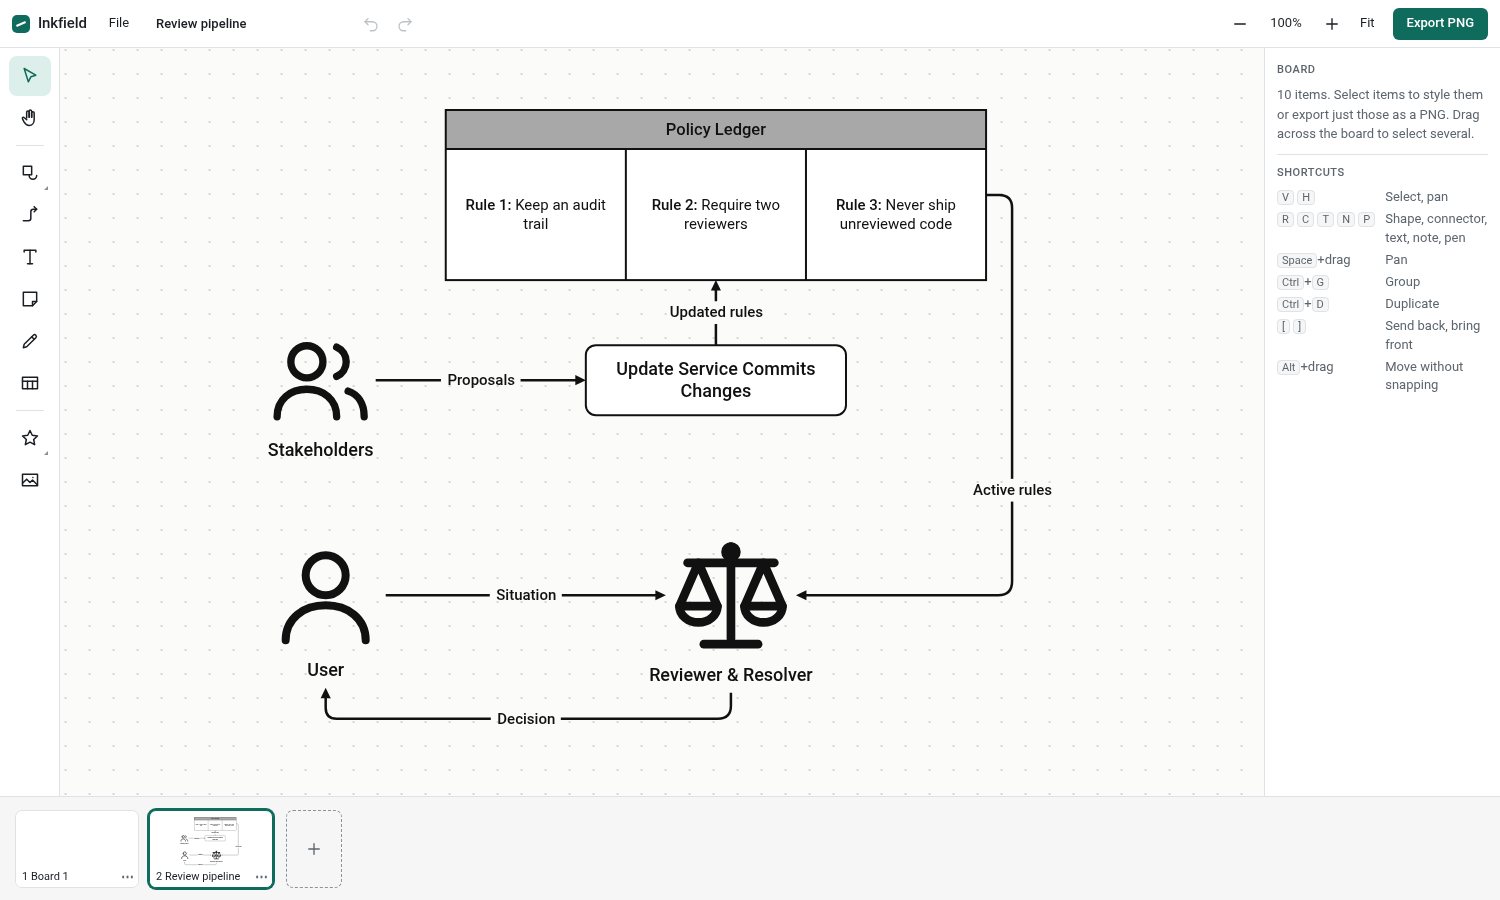
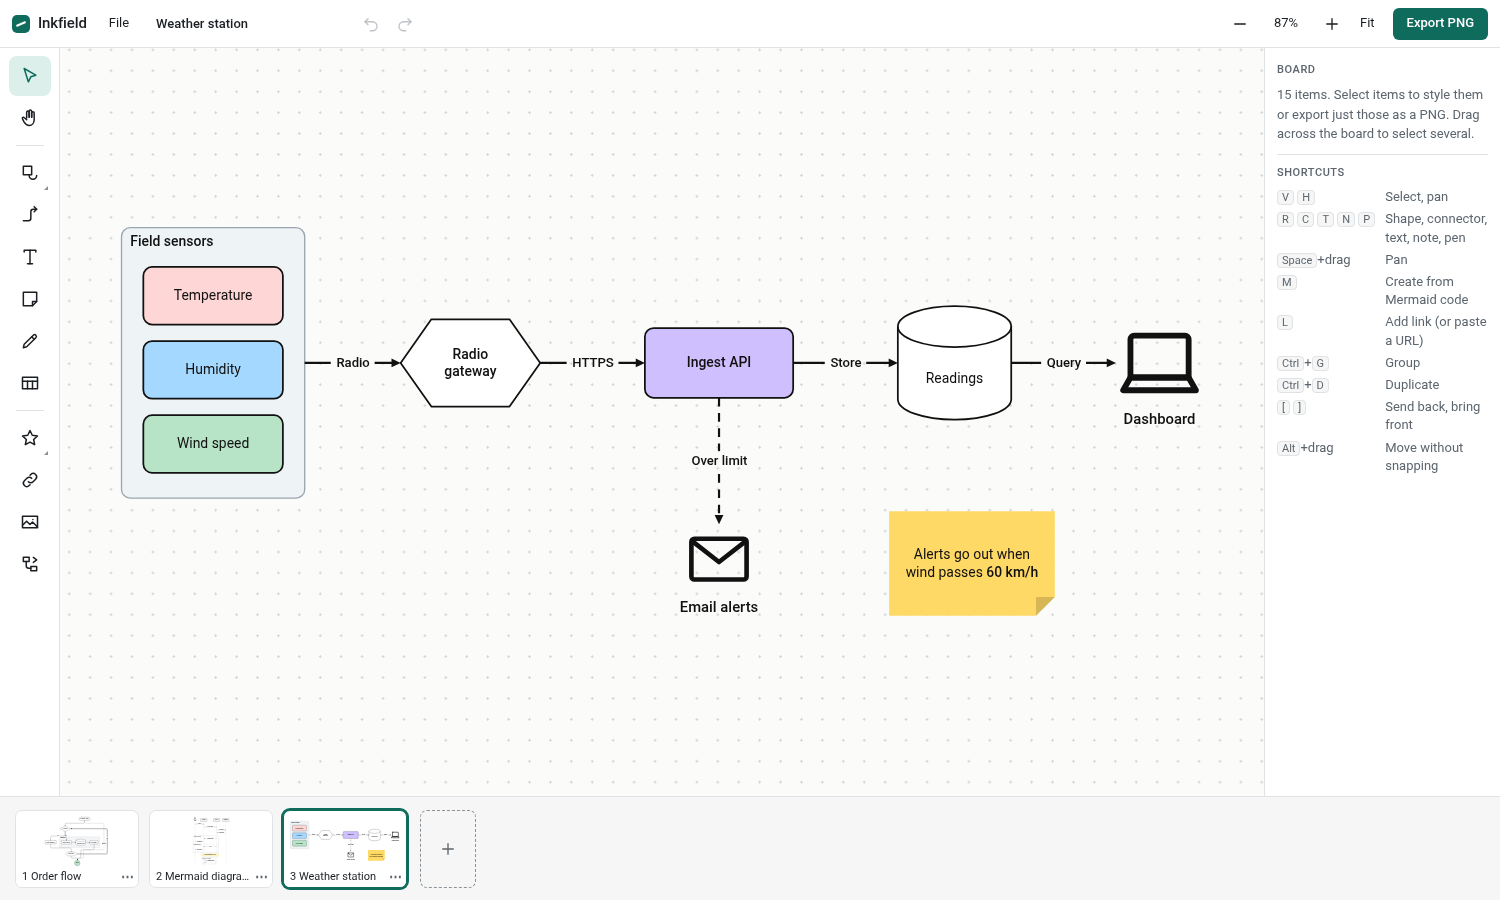
Replace README screenshot and sample diagram (#4)
Use a new weather station example throughout.

diff --git a/tests/core.test.js b/tests/core.test.js
@@ -13,10 +13,10 @@ const measure = approxMeasure;
 const map = (...els) => new Map(els.map((e) => [e.id, e]));
 
 test('wrapText wraps, keeps explicit breaks, and parses bold runs', () => {
-  const lines = wrapText('**Rule 1:** keep things short\nnext', 100, 16, 400, measure);
+  const lines = wrapText('**Tip one:** keep things short\nnext', 100, 16, 400, measure);
   assert.ok(lines.length >= 3);
   assert.equal(lines[0].runs[0].bold, true);
-  assert.equal(lines[0].runs[0].t, 'Rule 1:');
+  assert.equal(lines[0].runs[0].t, 'Tip one:');
   assert.equal(lines.at(-1).runs[0].t, 'next');
   for (const line of lines) assert.ok(line.width <= 100.01);
 });

diff --git a/tests/e2e/smoke.py b/tests/e2e/smoke.py
@@ -12,7 +12,7 @@ from playwright.sync_api import sync_playwright
 BASE = f"http://localhost:{os.environ.get('PORT', '4173')}"
 OUT = Path(__file__).parent / "artifacts"
 OUT.mkdir(exist_ok=True)
-EXAMPLE = Path(__file__).parents[2] / "examples" / "review-pipeline.json"
+EXAMPLE = Path(__file__).parents[2] / "examples" / "weather-station.json"
 failures = []
 
 
@@ -238,11 +238,11 @@ with sync_playwright() as p:
 
     # JSON import, icons, table, labels: visual fidelity board
     page.set_input_files("#file-input", EXAMPLE)
-    page.wait_for_function("window.inkfield.editor.board.name === 'Review pipeline'")
+    page.wait_for_function("window.inkfield.editor.board.name === 'Weather station'")
     settle(page)
     page.wait_for_timeout(600)
     page.screenshot(path=OUT / "04-example-board.png")
-    check("imports example JSON", len(els(page)) == 10)
+    check("imports example JSON", len(els(page)) == 15)
 
     # Tool coverage: table edit, sticky, pen, icon, connector style
     page.click("#add-board")

diff --git a/README.md b/README.md
@@ -2,7 +2,7 @@
 
 An infinite-canvas diagram editor that runs in your browser. Keep separate whiteboards in one workspace or side by side in their own windows, draw diagrams from scratch, and export any selection of items as a PNG.
 
-![Inkfield showing a diagram with a table, icons and labelled connectors](docs/screenshot.png)
+![Inkfield showing a weather station diagram with sensors, a database, icons, and labelled connectors](docs/screenshot.png)
 
 There is no account, backend or dependency to install. Your boards stay in your browser's storage.
 
@@ -38,7 +38,7 @@ Then open <http://localhost:4173>. To use another port, run `PORT=5000 npm start
 
 ### Text formatting
 
-Wrap words in double asterisks for bold, such as `**Rule 1:** Keep an audit trail`. This works in shapes, notes, table cells, and labels.
+Wrap words in double asterisks for bold, such as `**Tip:** Save a backup`. This works in shapes, notes, table cells, and labels.
 
 ### Add links with previews
 
@@ -134,7 +134,7 @@ Boards are plain JSON, so scripts and AI assistants can write them too. Import a
 To preview a board or Mermaid file without a browser, render it to SVG. Text wrapping in this output is approximate:
 
 ```bash
-node bin/render-svg.js examples/review-pipeline.json diagram.svg
+node bin/render-svg.js examples/weather-station.json diagram.svg
 node bin/render-svg.js examples/flowchart.mmd diagram.svg
 ```
 
